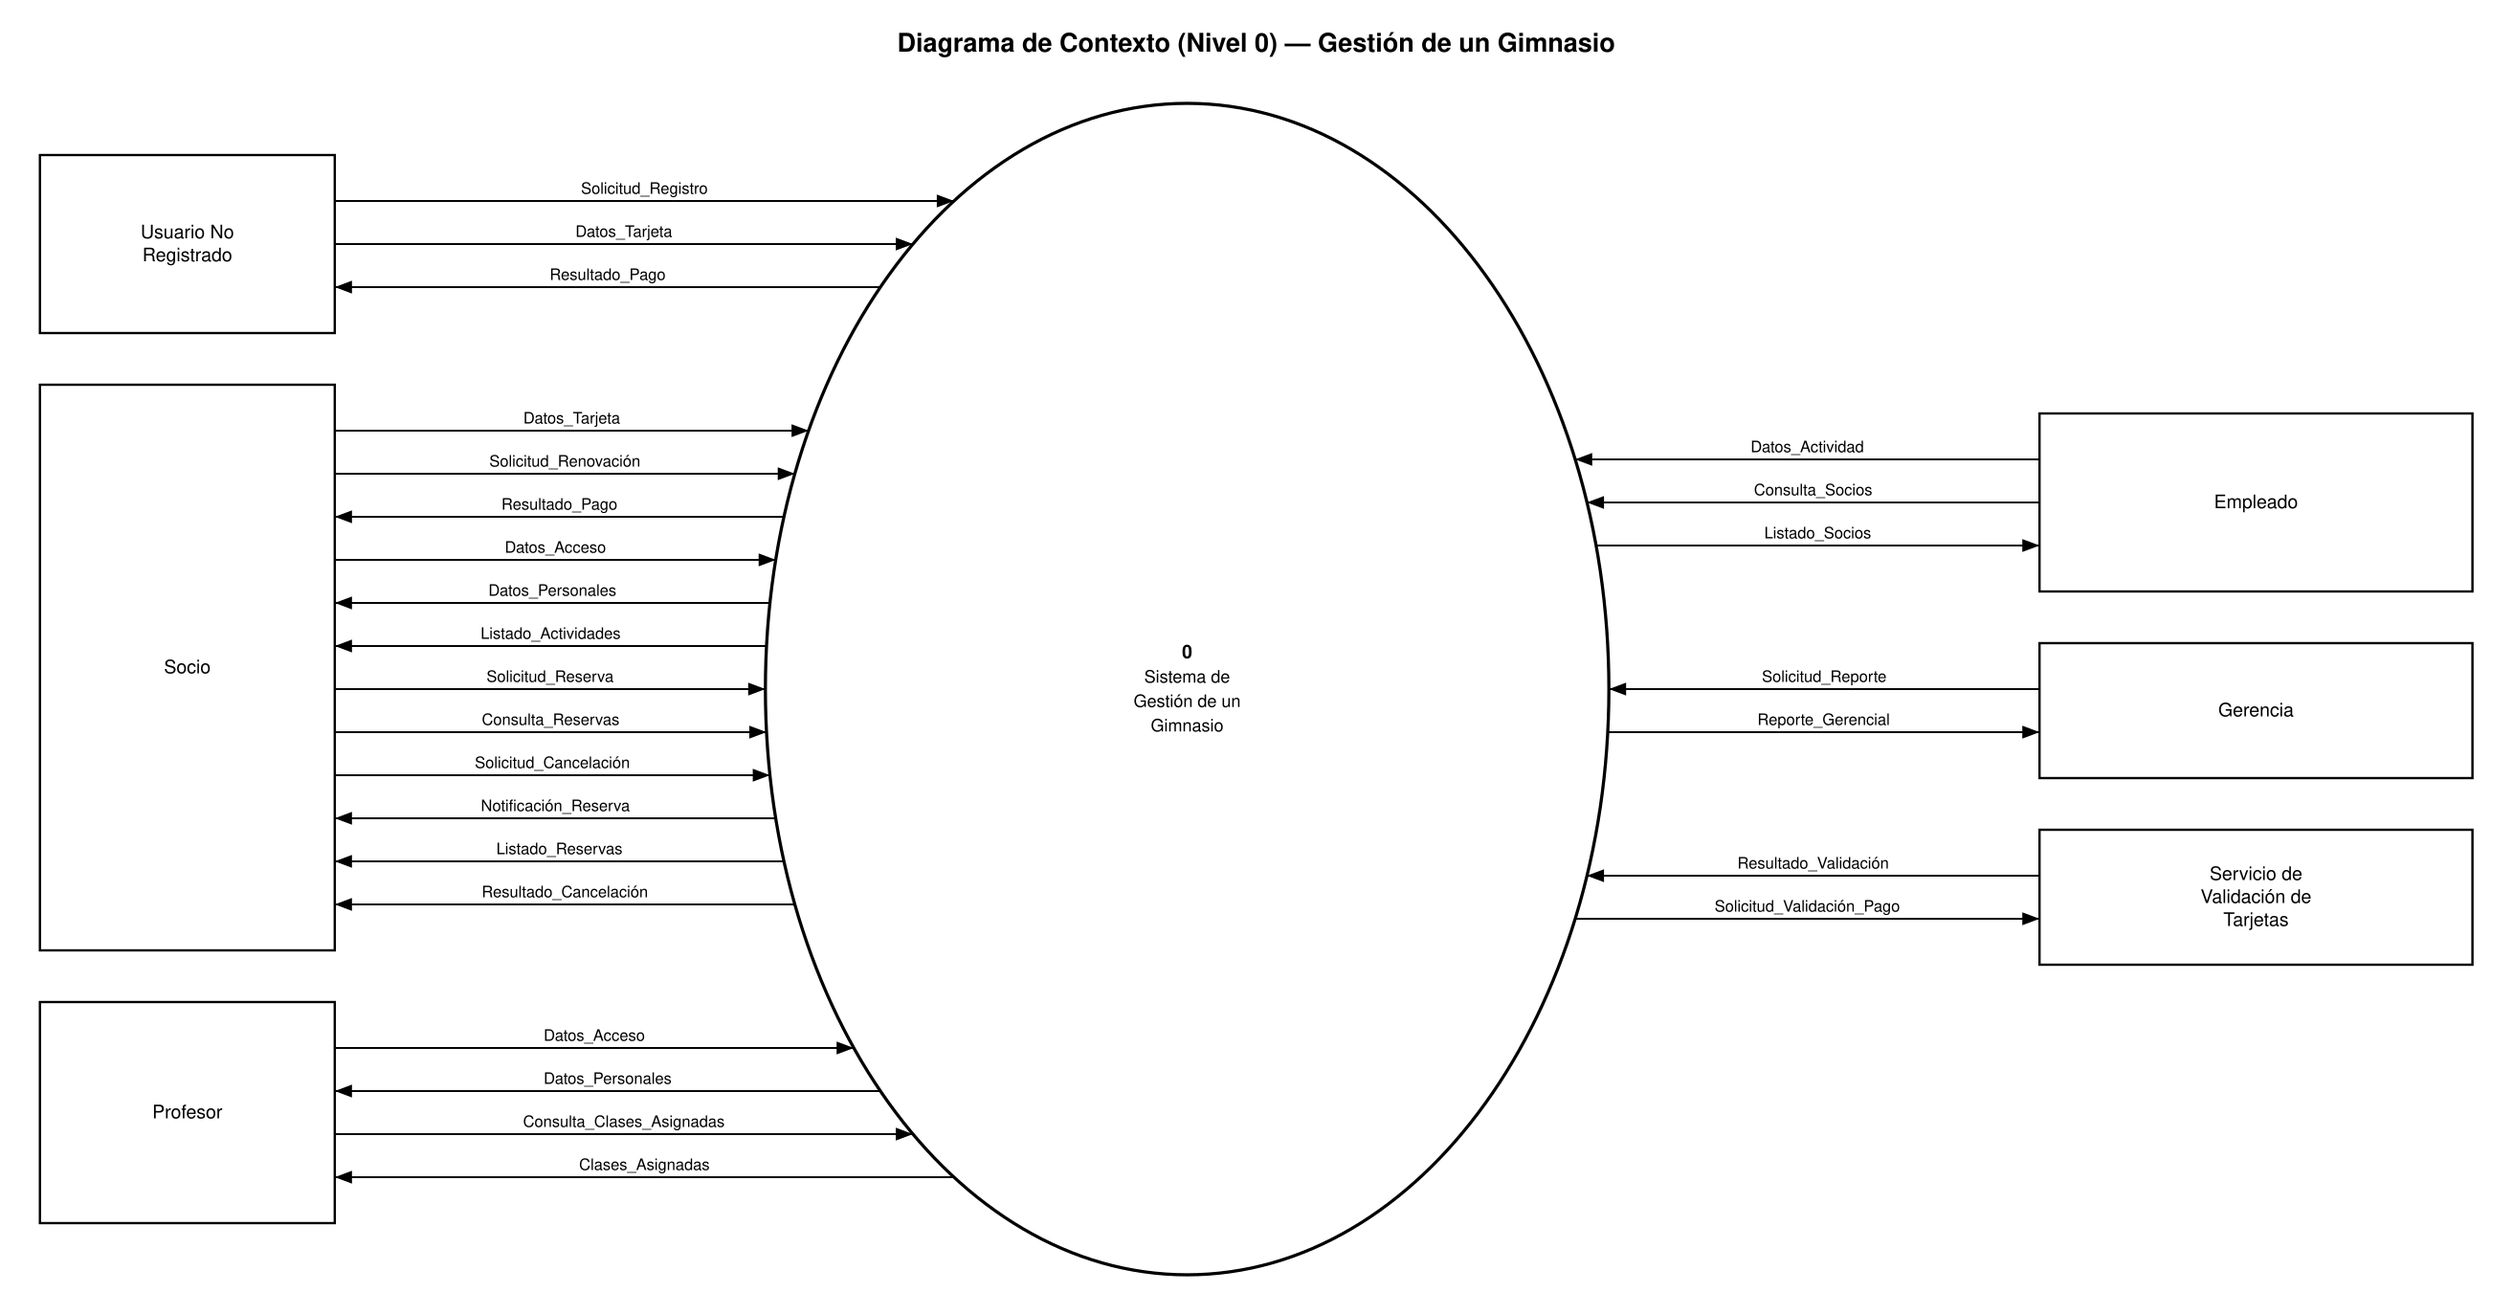
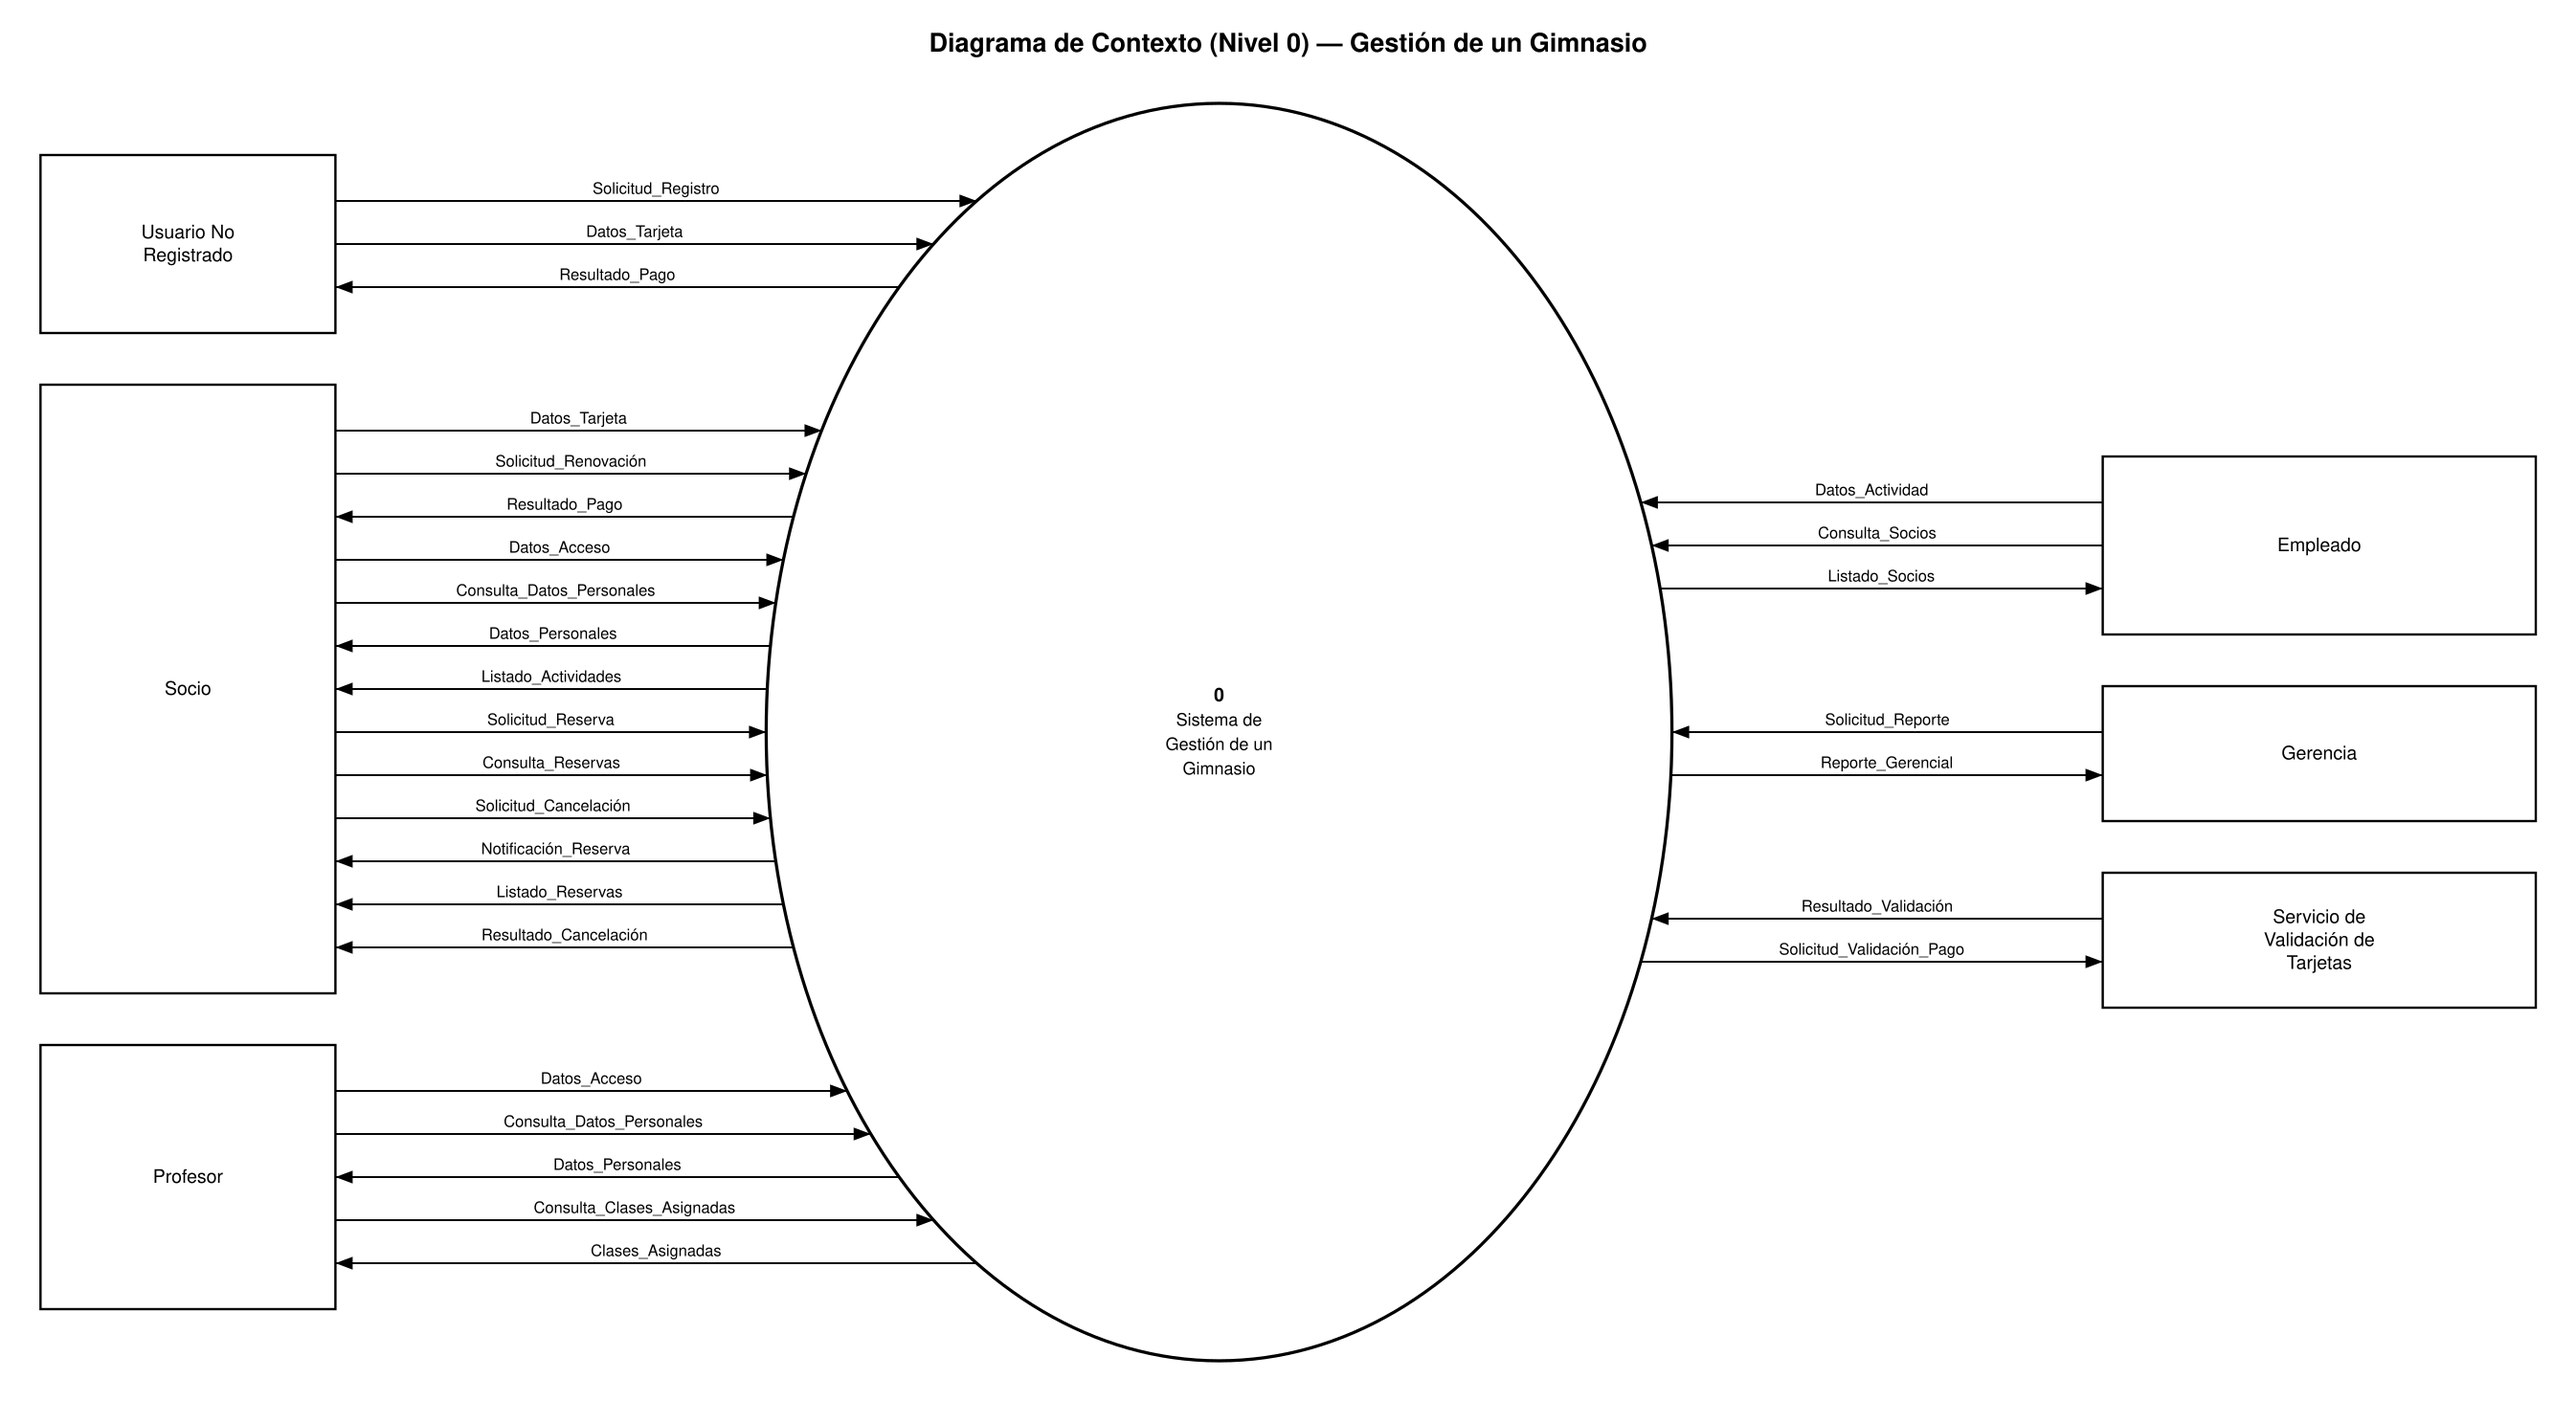
docs: restore personal data query flow in exercise 2 DFD
Socio and Profesor must be able to query their personal data, so Consulta_Datos_Personales is back in the context and level 1 diagrams.

diff --git a/README.md b/README.md
@@ -363,8 +363,8 @@ Se solicita modelar el sistema utilizando la técnica de **Diagrama de Flujo de 
 | Entidad | Rol frente al sistema | Qué envía / qué recibe |
 | --- | --- | --- |
 | **Usuario No Registrado** | Persona interesada que todavía no es socio: se registra con sus datos y el tipo de membresía y debe pagarla con tarjeta para completar el registro. Al aprobarse el pago pasa a ser Socio. | Envía la solicitud de registro y los datos de la tarjeta. Recibe el resultado del pago (membresía habilitada o error por pago rechazado). |
-| **Socio** | Persona ya registrada: renueva su membresía, inicia sesión, consulta actividades y reserva clases. | Envía datos de tarjeta y renovación, datos de acceso, pedidos de reserva, consulta y cancelación. Recibe resultado del pago, datos personales, listados y notificaciones. |
-| **Profesor** | Inicia sesión, consulta sus datos personales y las clases que tiene asignadas con sus inscriptos. | Envía datos de acceso y la consulta de clases. Recibe sus datos personales y las clases asignadas. |
+| **Socio** | Persona ya registrada: renueva su membresía, inicia sesión, consulta actividades y reserva clases. | Envía datos de tarjeta y renovación, datos de acceso, consulta de datos personales, pedidos de reserva, consulta y cancelación. Recibe resultado del pago, datos personales, listados y notificaciones. |
+| **Profesor** | Inicia sesión, consulta sus datos personales y las clases que tiene asignadas con sus inscriptos. | Envía datos de acceso y consultas (datos personales y clases asignadas). Recibe sus datos personales y las clases asignadas. |
 | **Empleado** | Administra las actividades y consulta socios y el estado de sus membresías. | Envía datos de actividad y consulta de socios. Recibe el listado de socios. |
 | **Gerencia** | Consulta reportes de gestión. | Envía solicitud de reporte. Recibe cantidad de socios y actividades con más reservas. |
 | **Servicio de Validación de Tarjetas** | Servicio externo que aprueba o rechaza las transacciones con tarjeta de crédito. | Recibe los datos de la tarjeta y el importe; devuelve la aprobación o el rechazo. |
@@ -400,7 +400,8 @@ Una sola burbuja numerada con **0** que representa todo el sistema, todas las en
 | `Solicitud_Validación_Pago` | Sistema (0) | Servicio de Validación de Tarjetas | Datos de la tarjeta e importe enviados al servicio de validación externa. |
 | `Resultado_Pago` | Sistema (0) | Usuario No Registrado, Socio | Confirmación de la operación (membresía habilitada o renovada) o error por pago rechazado. |
 | `Datos_Acceso` | Socio, Profesor | Sistema (0) | Datos con los que el usuario se identifica para iniciar sesión. |
-| `Datos_Personales` | Sistema (0) | Socio, Profesor | Datos personales del socio o del profesor que inició sesión. |
+| `Consulta_Datos_Personales` | Socio, Profesor | Sistema (0) | Pedido de consulta de los datos personales propios. |
+| `Datos_Personales` | Sistema (0) | Socio, Profesor | Datos personales del socio o del profesor. |
 | `Datos_Actividad` | Empleado | Sistema (0) | Alta o modificación de una actividad: código, denominación, tipo, profesores, horarios, lugar y cupos. |
 | `Listado_Actividades` | Sistema (0) | Socio | Nombre, profesor responsable, días y horarios y lugares disponibles de cada actividad. |
 | `Solicitud_Reserva` | Socio | Sistema (0) | Pedido de reservar un lugar en una clase. |
@@ -418,7 +419,7 @@ Una sola burbuja numerada con **0** que representa todo el sistema, todas las en
 
 ##### Nivel 1
 
-Descompone el proceso 0 en 7 procesos y agrega los almacenamientos que comparten. Los 22 flujos externos del diagrama de contexto se conservan sin cambios (balanceo nivel 0 ↔ nivel 1); aquí se dibujan sin la entidad, como en la solución de la cátedra, y su origen o destino figura en la tabla anterior.
+Descompone el proceso 0 en 7 procesos y agrega los almacenamientos que comparten. Los 23 flujos externos del diagrama de contexto se conservan sin cambios (balanceo nivel 0 ↔ nivel 1); aquí se dibujan sin la entidad, como en la solución de la cátedra, y su origen o destino figura en la tabla anterior.
 
 ![Nivel 1 — Gestión de un Gimnasio](diagramas/c2-nivel1.png)
 
@@ -522,4 +523,4 @@ Datos elementales (longitud y formato son propuestas de diseño: el enunciado so
 - El importe a cobrar surge del tipo de membresía elegido o renovado; no se modela una tarifa aparte.
 - Los pedidos de datos de tarjeta que hace el sistema son interfaz de usuario y no se dibujan: el flujo esencial es `Datos_Tarjeta`.
 - La cantidad de lugares se descuenta al reservar y se devuelve al cancelar, para poder informar "clase completa".
-- Para no sobrecargar el contexto se omiten el resultado del inicio de sesión y los pedidos de datos personales y de actividades: esa información se entrega sin un pedido explícito, como los reportes en la solución de la cátedra (Obra Social).
+- Para no sobrecargar el contexto se omiten el resultado del inicio de sesión y el pedido de actividades: esa información se entrega sin un pedido explícito, como los reportes en la solución de la cátedra (Obra Social).
